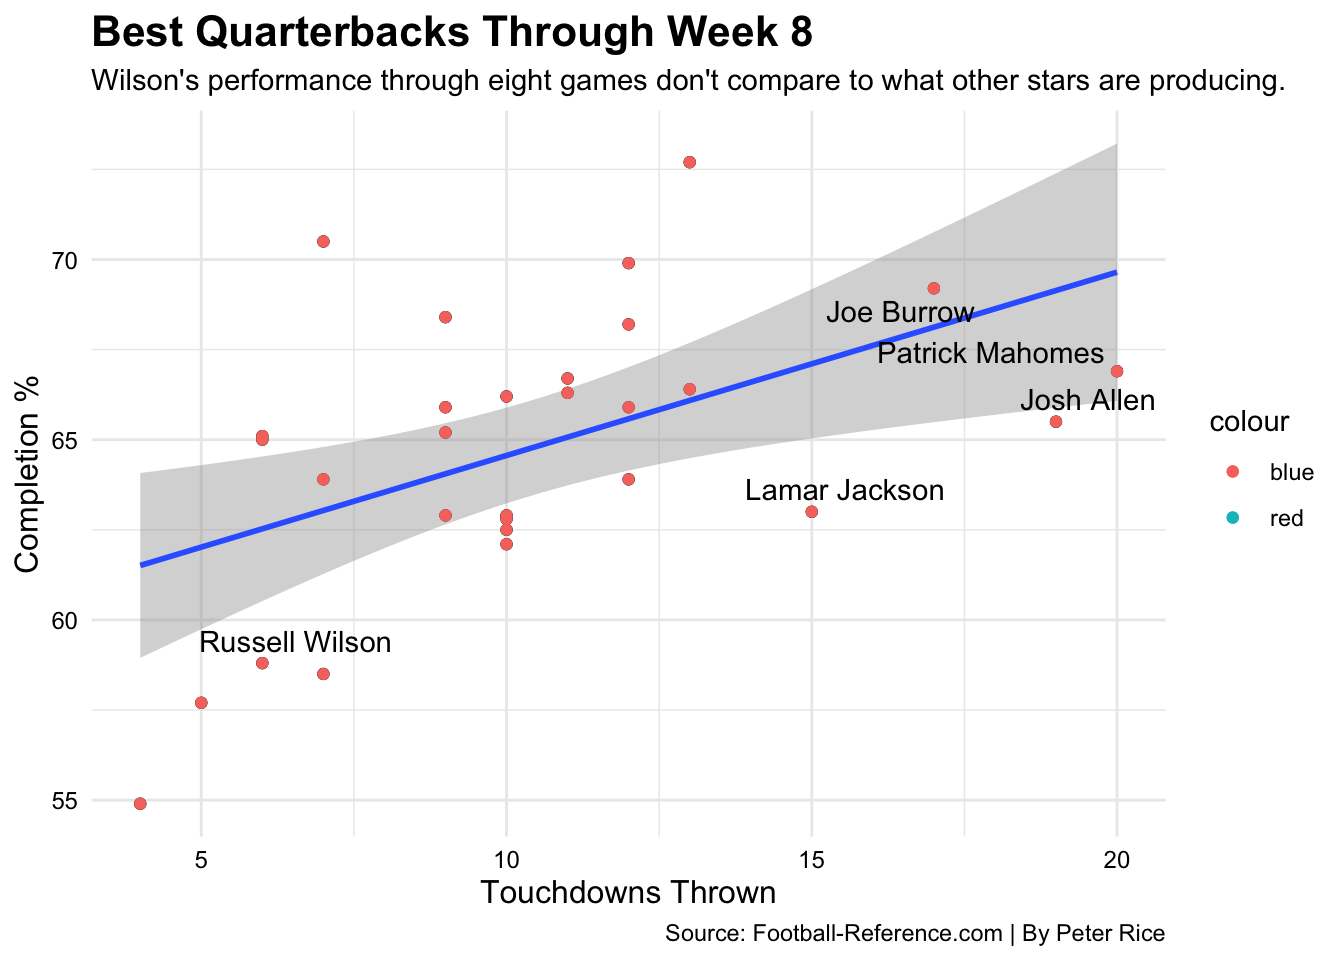
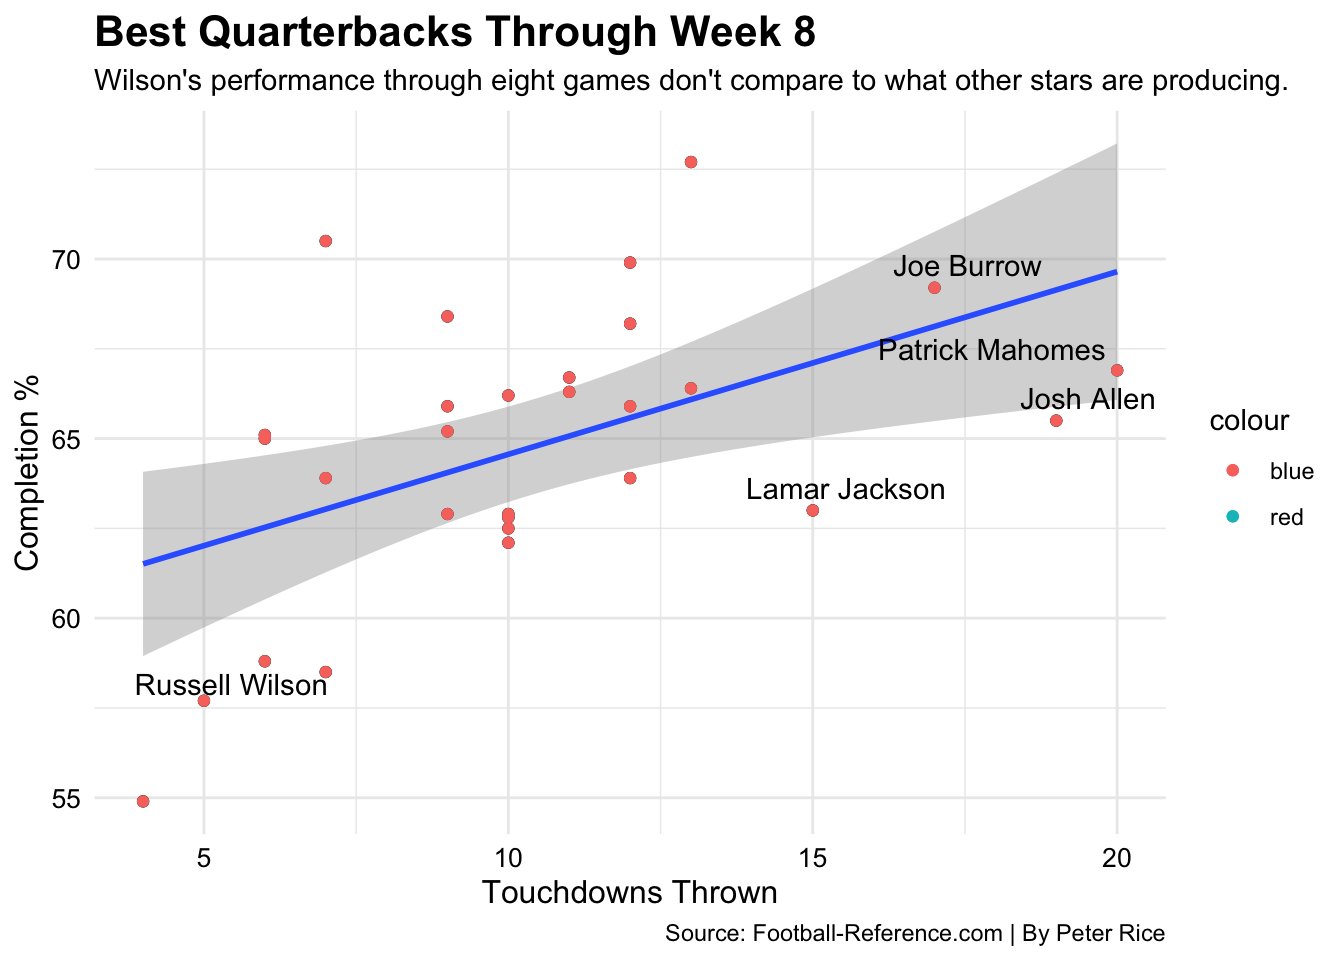
h

diff --git a/posts/russell-wilson-isnt-living-up-to-hype/index.html b/posts/russell-wilson-isnt-living-up-to-hype/index.html
@@ -206,7 +206,7 @@ code span.wa { color: #60a0b0; font-weight: bold; font-style: italic; } /* Warni
 
 
 
-<p>Since Peyton Manning retired in 2016 after winning Super Bowl 50, the Denver Broncos have had a rotating carousel at the starting quarterback position. That was until they completed a blockbuster deal with the Seattle Seahawks this past summer that returned the quarterback who broke the city’s heart in Super Bowl 48. The Broncos sent away Drew Lock, Noah Fant, Shelby Harris, two first-round picks, and two second-round picks in exchange for Wilson. He will be the 12th starting quarterback since “The Sheriff” retired.</p>
+<p>Since Peyton Manning retired in 2016 after winning Super Bowl 50, the Denver Broncos have had a rotating carousel at the starting quarterback position. That was until they completed a blockbuster deal with the Seattle Seahawks this past summer that returned Russell Wilson, who broke Denver fan’s hearts in Super Bowl 48. General Manager George Paton sent away Drew Lock, Noah Fant, Shelby Harris, two first-round picks, and two second-round picks in exchange for Wilson. He will be the 12th different starting Broncos quarterback since “The Sheriff” retired.</p>
 <p>However, things have not gone as planned.</p>
 <div class="cell">
 <details>
@@ -237,7 +237,7 @@ code span.wa { color: #60a0b0; font-weight: bold; font-style: italic; } /* Warni
 <span id="cb1-24"><a href="#cb1-24" aria-hidden="true" tabindex="-1"></a><span class="fu">theme_minimal</span>() <span class="sc">+</span> <span class="fu">theme</span>(</span>
 <span id="cb1-25"><a href="#cb1-25" aria-hidden="true" tabindex="-1"></a><span class="at">plot.title =</span> <span class="fu">element_text</span>(<span class="at">size =</span> <span class="dv">16</span>, <span class="at">face =</span> <span class="st">"bold"</span>),</span>
 <span id="cb1-26"><a href="#cb1-26" aria-hidden="true" tabindex="-1"></a><span class="at">axis.title =</span> <span class="fu">element_text</span>(<span class="at">size =</span> <span class="dv">12</span>),</span>
-<span id="cb1-27"><a href="#cb1-27" aria-hidden="true" tabindex="-1"></a><span class="at">axis.text =</span> <span class="fu">element_text</span>(<span class="at">size =</span> <span class="dv">9</span>, <span class="at">color =</span> <span class="st">"black"</span>) </span>
+<span id="cb1-27"><a href="#cb1-27" aria-hidden="true" tabindex="-1"></a><span class="at">axis.text =</span> <span class="fu">element_text</span>(<span class="at">size =</span> <span class="dv">10</span>, <span class="at">color =</span> <span class="st">"black"</span>) </span>
 <span id="cb1-28"><a href="#cb1-28" aria-hidden="true" tabindex="-1"></a>) </span></code><button title="Copy to Clipboard" class="code-copy-button"><i class="bi"></i></button></pre></div>
 </details>
 <div class="cell-output-display">
@@ -326,12 +326,12 @@ code span.wa { color: #60a0b0; font-weight: bold; font-style: italic; } /* Warni
 </details>
 <div class="cell-output-display">
 
-<div id="dxytthrmxb" style="overflow-x:auto;overflow-y:auto;width:auto;height:auto;">
+<div id="ijgvxseula" style="overflow-x:auto;overflow-y:auto;width:auto;height:auto;">
 <style>html {
   font-family: -apple-system, BlinkMacSystemFont, 'Segoe UI', Roboto, Oxygen, Ubuntu, Cantarell, 'Helvetica Neue', 'Fira Sans', 'Droid Sans', Arial, sans-serif;
 }
 
-:where(#dxytthrmxb) .gt_table {
+:where(#ijgvxseula) .gt_table {
   display: table;
   border-collapse: collapse;
   margin-left: auto;
@@ -356,7 +356,7 @@ code span.wa { color: #60a0b0; font-weight: bold; font-style: italic; } /* Warni
   border-left-color: #D3D3D3;
 }
 
-:where(#dxytthrmxb) .gt_heading {
+:where(#ijgvxseula) .gt_heading {
   background-color: #FFFFFF;
   text-align: center;
   border-bottom-color: #FFFFFF;
@@ -368,7 +368,7 @@ code span.wa { color: #60a0b0; font-weight: bold; font-style: italic; } /* Warni
   border-right-color: #D3D3D3;
 }
 
-:where(#dxytthrmxb) .gt_title {
+:where(#ijgvxseula) .gt_title {
   color: #333333;
   font-size: 125%;
   font-weight: initial;
@@ -380,7 +380,7 @@ code span.wa { color: #60a0b0; font-weight: bold; font-style: italic; } /* Warni
   border-bottom-width: 0;
 }
 
-:where(#dxytthrmxb) .gt_subtitle {
+:where(#ijgvxseula) .gt_subtitle {
   color: #333333;
   font-size: 85%;
   font-weight: initial;
@@ -392,13 +392,13 @@ code span.wa { color: #60a0b0; font-weight: bold; font-style: italic; } /* Warni
   border-top-width: 0;
 }
 
-:where(#dxytthrmxb) .gt_bottom_border {
+:where(#ijgvxseula) .gt_bottom_border {
   border-bottom-style: none;
   border-bottom-width: 2px;
   border-bottom-color: #D3D3D3;
 }
 
-:where(#dxytthrmxb) .gt_col_headings {
+:where(#ijgvxseula) .gt_col_headings {
   border-top-style: none;
   border-top-width: 2px;
   border-top-color: #D3D3D3;
@@ -413,7 +413,7 @@ code span.wa { color: #60a0b0; font-weight: bold; font-style: italic; } /* Warni
   border-right-color: #D3D3D3;
 }
 
-:where(#dxytthrmxb) .gt_col_heading {
+:where(#ijgvxseula) .gt_col_heading {
   color: #333333;
   background-color: #FFFFFF;
   font-size: 100%;
@@ -433,7 +433,7 @@ code span.wa { color: #60a0b0; font-weight: bold; font-style: italic; } /* Warni
   overflow-x: hidden;
 }
 
-:where(#dxytthrmxb) .gt_column_spanner_outer {
+:where(#ijgvxseula) .gt_column_spanner_outer {
   color: #333333;
   background-color: #FFFFFF;
   font-size: 100%;
@@ -445,15 +445,15 @@ code span.wa { color: #60a0b0; font-weight: bold; font-style: italic; } /* Warni
   padding-right: 4px;
 }
 
-:where(#dxytthrmxb) .gt_column_spanner_outer:first-child {
+:where(#ijgvxseula) .gt_column_spanner_outer:first-child {
   padding-left: 0;
 }
 
-:where(#dxytthrmxb) .gt_column_spanner_outer:last-child {
+:where(#ijgvxseula) .gt_column_spanner_outer:last-child {
   padding-right: 0;
 }
 
-:where(#dxytthrmxb) .gt_column_spanner {
+:where(#ijgvxseula) .gt_column_spanner {
   border-bottom-style: none;
   border-bottom-width: 2px;
   border-bottom-color: #D3D3D3;
@@ -465,7 +465,7 @@ code span.wa { color: #60a0b0; font-weight: bold; font-style: italic; } /* Warni
   width: 100%;
 }
 
-:where(#dxytthrmxb) .gt_group_heading {
+:where(#ijgvxseula) .gt_group_heading {
   padding-top: 8px;
   padding-bottom: 8px;
   padding-left: 5px;
@@ -490,7 +490,7 @@ code span.wa { color: #60a0b0; font-weight: bold; font-style: italic; } /* Warni
   vertical-align: middle;
 }
 
-:where(#dxytthrmxb) .gt_empty_group_heading {
+:where(#ijgvxseula) .gt_empty_group_heading {
   padding: 0.5px;
   color: #333333;
   background-color: #FFFFFF;
@@ -505,15 +505,15 @@ code span.wa { color: #60a0b0; font-weight: bold; font-style: italic; } /* Warni
   vertical-align: middle;
 }
 
-:where(#dxytthrmxb) .gt_from_md > :first-child {
+:where(#ijgvxseula) .gt_from_md > :first-child {
   margin-top: 0;
 }
 
-:where(#dxytthrmxb) .gt_from_md > :last-child {
+:where(#ijgvxseula) .gt_from_md > :last-child {
   margin-bottom: 0;
 }
 
-:where(#dxytthrmxb) .gt_row {
+:where(#ijgvxseula) .gt_row {
   padding-top: 8px;
   padding-bottom: 8px;
   padding-left: 5px;
@@ -532,7 +532,7 @@ code span.wa { color: #60a0b0; font-weight: bold; font-style: italic; } /* Warni
   overflow-x: hidden;
 }
 
-:where(#dxytthrmxb) .gt_stub {
+:where(#ijgvxseula) .gt_stub {
   color: #333333;
   background-color: #FFFFFF;
   font-size: 100%;
@@ -545,7 +545,7 @@ code span.wa { color: #60a0b0; font-weight: bold; font-style: italic; } /* Warni
   padding-right: 5px;
 }
 
-:where(#dxytthrmxb) .gt_stub_row_group {
+:where(#ijgvxseula) .gt_stub_row_group {
   color: #333333;
   background-color: #FFFFFF;
   font-size: 100%;
@@ -559,11 +559,11 @@ code span.wa { color: #60a0b0; font-weight: bold; font-style: italic; } /* Warni
   vertical-align: top;
 }
 
-:where(#dxytthrmxb) .gt_row_group_first td {
+:where(#ijgvxseula) .gt_row_group_first td {
   border-top-width: 2px;
 }
 
-:where(#dxytthrmxb) .gt_summary_row {
+:where(#ijgvxseula) .gt_summary_row {
   color: #333333;
   background-color: #FFFFFF;
   text-transform: inherit;
@@ -573,16 +573,16 @@ code span.wa { color: #60a0b0; font-weight: bold; font-style: italic; } /* Warni
   padding-right: 5px;
 }
 
-:where(#dxytthrmxb) .gt_first_summary_row {
+:where(#ijgvxseula) .gt_first_summary_row {
   border-top-style: none;
   border-top-color: #D3D3D3;
 }
 
-:where(#dxytthrmxb) .gt_first_summary_row.thick {
+:where(#ijgvxseula) .gt_first_summary_row.thick {
   border-top-width: 2px;
 }
 
-:where(#dxytthrmxb) .gt_last_summary_row {
+:where(#ijgvxseula) .gt_last_summary_row {
   padding-top: 8px;
   padding-bottom: 8px;
   padding-left: 5px;
@@ -592,7 +592,7 @@ code span.wa { color: #60a0b0; font-weight: bold; font-style: italic; } /* Warni
   border-bottom-color: #D3D3D3;
 }
 
-:where(#dxytthrmxb) .gt_grand_summary_row {
+:where(#ijgvxseula) .gt_grand_summary_row {
   color: #333333;
   background-color: #FFFFFF;
   text-transform: inherit;
@@ -602,7 +602,7 @@ code span.wa { color: #60a0b0; font-weight: bold; font-style: italic; } /* Warni
   padding-right: 5px;
 }
 
-:where(#dxytthrmxb) .gt_first_grand_summary_row {
+:where(#ijgvxseula) .gt_first_grand_summary_row {
   padding-top: 8px;
   padding-bottom: 8px;
   padding-left: 5px;
@@ -612,11 +612,11 @@ code span.wa { color: #60a0b0; font-weight: bold; font-style: italic; } /* Warni
   border-top-color: #D3D3D3;
 }
 
-:where(#dxytthrmxb) .gt_striped {
+:where(#ijgvxseula) .gt_striped {
   background-color: rgba(128, 128, 128, 0.05);
 }
 
-:where(#dxytthrmxb) .gt_table_body {
+:where(#ijgvxseula) .gt_table_body {
   border-top-style: none;
   border-top-width: 2px;
   border-top-color: #D3D3D3;
@@ -625,7 +625,7 @@ code span.wa { color: #60a0b0; font-weight: bold; font-style: italic; } /* Warni
   border-bottom-color: #D3D3D3;
 }
 
-:where(#dxytthrmxb) .gt_footnotes {
+:where(#ijgvxseula) .gt_footnotes {
   color: #333333;
   background-color: #FFFFFF;
   border-bottom-style: none;
@@ -639,7 +639,7 @@ code span.wa { color: #60a0b0; font-weight: bold; font-style: italic; } /* Warni
   border-right-color: #D3D3D3;
 }
 
-:where(#dxytthrmxb) .gt_footnote {
+:where(#ijgvxseula) .gt_footnote {
   margin: 0px;
   font-size: 90%;
   padding-left: 4px;
@@ -648,7 +648,7 @@ code span.wa { color: #60a0b0; font-weight: bold; font-style: italic; } /* Warni
   padding-right: 5px;
 }
 
-:where(#dxytthrmxb) .gt_sourcenotes {
+:where(#ijgvxseula) .gt_sourcenotes {
   color: #333333;
   background-color: #FFFFFF;
   border-bottom-style: none;
@@ -662,7 +662,7 @@ code span.wa { color: #60a0b0; font-weight: bold; font-style: italic; } /* Warni
   border-right-color: #D3D3D3;
 }
 
-:where(#dxytthrmxb) .gt_sourcenote {
+:where(#ijgvxseula) .gt_sourcenote {
   font-size: 90%;
   padding-top: 4px;
   padding-bottom: 4px;
@@ -670,64 +670,64 @@ code span.wa { color: #60a0b0; font-weight: bold; font-style: italic; } /* Warni
   padding-right: 5px;
 }
 
-:where(#dxytthrmxb) .gt_left {
+:where(#ijgvxseula) .gt_left {
   text-align: left;
 }
 
-:where(#dxytthrmxb) .gt_center {
+:where(#ijgvxseula) .gt_center {
   text-align: center;
 }
 
-:where(#dxytthrmxb) .gt_right {
+:where(#ijgvxseula) .gt_right {
   text-align: right;
   font-variant-numeric: tabular-nums;
 }
 
-:where(#dxytthrmxb) .gt_font_normal {
+:where(#ijgvxseula) .gt_font_normal {
   font-weight: normal;
 }
 
-:where(#dxytthrmxb) .gt_font_bold {
+:where(#ijgvxseula) .gt_font_bold {
   font-weight: bold;
 }
 
-:where(#dxytthrmxb) .gt_font_italic {
+:where(#ijgvxseula) .gt_font_italic {
   font-style: italic;
 }
 
-:where(#dxytthrmxb) .gt_super {
+:where(#ijgvxseula) .gt_super {
   font-size: 65%;
 }
 
-:where(#dxytthrmxb) .gt_footnote_marks {
+:where(#ijgvxseula) .gt_footnote_marks {
   font-style: italic;
   font-weight: normal;
   font-size: 75%;
   vertical-align: 0.4em;
 }
 
-:where(#dxytthrmxb) .gt_asterisk {
+:where(#ijgvxseula) .gt_asterisk {
   font-size: 100%;
   vertical-align: 0;
 }
 
-:where(#dxytthrmxb) .gt_indent_1 {
+:where(#ijgvxseula) .gt_indent_1 {
   text-indent: 5px;
 }
 
-:where(#dxytthrmxb) .gt_indent_2 {
+:where(#ijgvxseula) .gt_indent_2 {
   text-indent: 10px;
 }
 
-:where(#dxytthrmxb) .gt_indent_3 {
+:where(#ijgvxseula) .gt_indent_3 {
   text-indent: 15px;
 }
 
-:where(#dxytthrmxb) .gt_indent_4 {
+:where(#ijgvxseula) .gt_indent_4 {
   text-indent: 20px;
 }
 
-:where(#dxytthrmxb) .gt_indent_5 {
+:where(#ijgvxseula) .gt_indent_5 {
   text-indent: 25px;
 }
 </style>
@@ -804,7 +804,7 @@ code span.wa { color: #60a0b0; font-weight: bold; font-style: italic; } /* Warni
 </div>
 </div>
 </div>
-<p>graphic 3</p>
+<p>Transition</p>
 <div class="cell">
 <details>
 <summary>Code</summary>

diff --git a/index.html b/index.html
@@ -164,7 +164,7 @@ ul.task-list li input[type="checkbox"] {
 
 <div class="quarto-listing quarto-listing-container-default" id="listing-listing">
 <div class="list quarto-listing-default">
-<div class="quarto-post image-right" data-index="0" data-categories="sports,data,football" data-listing-date-sort="1667538000000" data-listing-file-modified-sort="1667759976477" data-listing-reading-time-sort="4.185">
+<div class="quarto-post image-right" data-index="0" data-categories="sports,data,football" data-listing-date-sort="1667538000000" data-listing-file-modified-sort="1667761205493" data-listing-reading-time-sort="4.205">
 <div class="thumbnail">
 <p><a href="./posts/russell-wilson-isnt-living-up-to-hype/index.html"> <img src="./posts/russell-wilson-isnt-living-up-to-hype/image.png" class="thumnail-image"> </a></p>
 </div>
@@ -190,7 +190,7 @@ football
 </div>
 <a href="./posts/russell-wilson-isnt-living-up-to-hype/index.html">
 <div class="listing-description">
-Since Peyton Manning retired in 2016 after winning Super Bowl 50, the Denver Broncos have had a rotating carousel at the starting quarterback position. That was until they completed a blockbuster deal with the Seattle Seahawks this past summer that returned the quarterback who broke the city’s heart in Super Bowl 48. The Broncos sent away Drew Lock, Noah Fant, Shelby Harris, two first-round picks, and two second-round picks in exchange for Wilson. He will be the 12th starting quarterback since “The Sheriff” retired.
+Since Peyton Manning retired in 2016 after winning Super Bowl 50, the Denver Broncos have had a rotating carousel at the starting quarterback position. That was until they completed a blockbuster deal with the Seattle Seahawks this past summer that returned Russell Wilson, who broke Denver fan’s hearts in Super Bowl 48. General Manager George Paton sent away Drew Lock, Noah Fant, Shelby Harris, two first-round picks, and two second-round picks in exchange for Wilson. He will be the 12th different starting Broncos quarterback since “The Sheriff” retired.
 </div>
 </a>
 </div>
